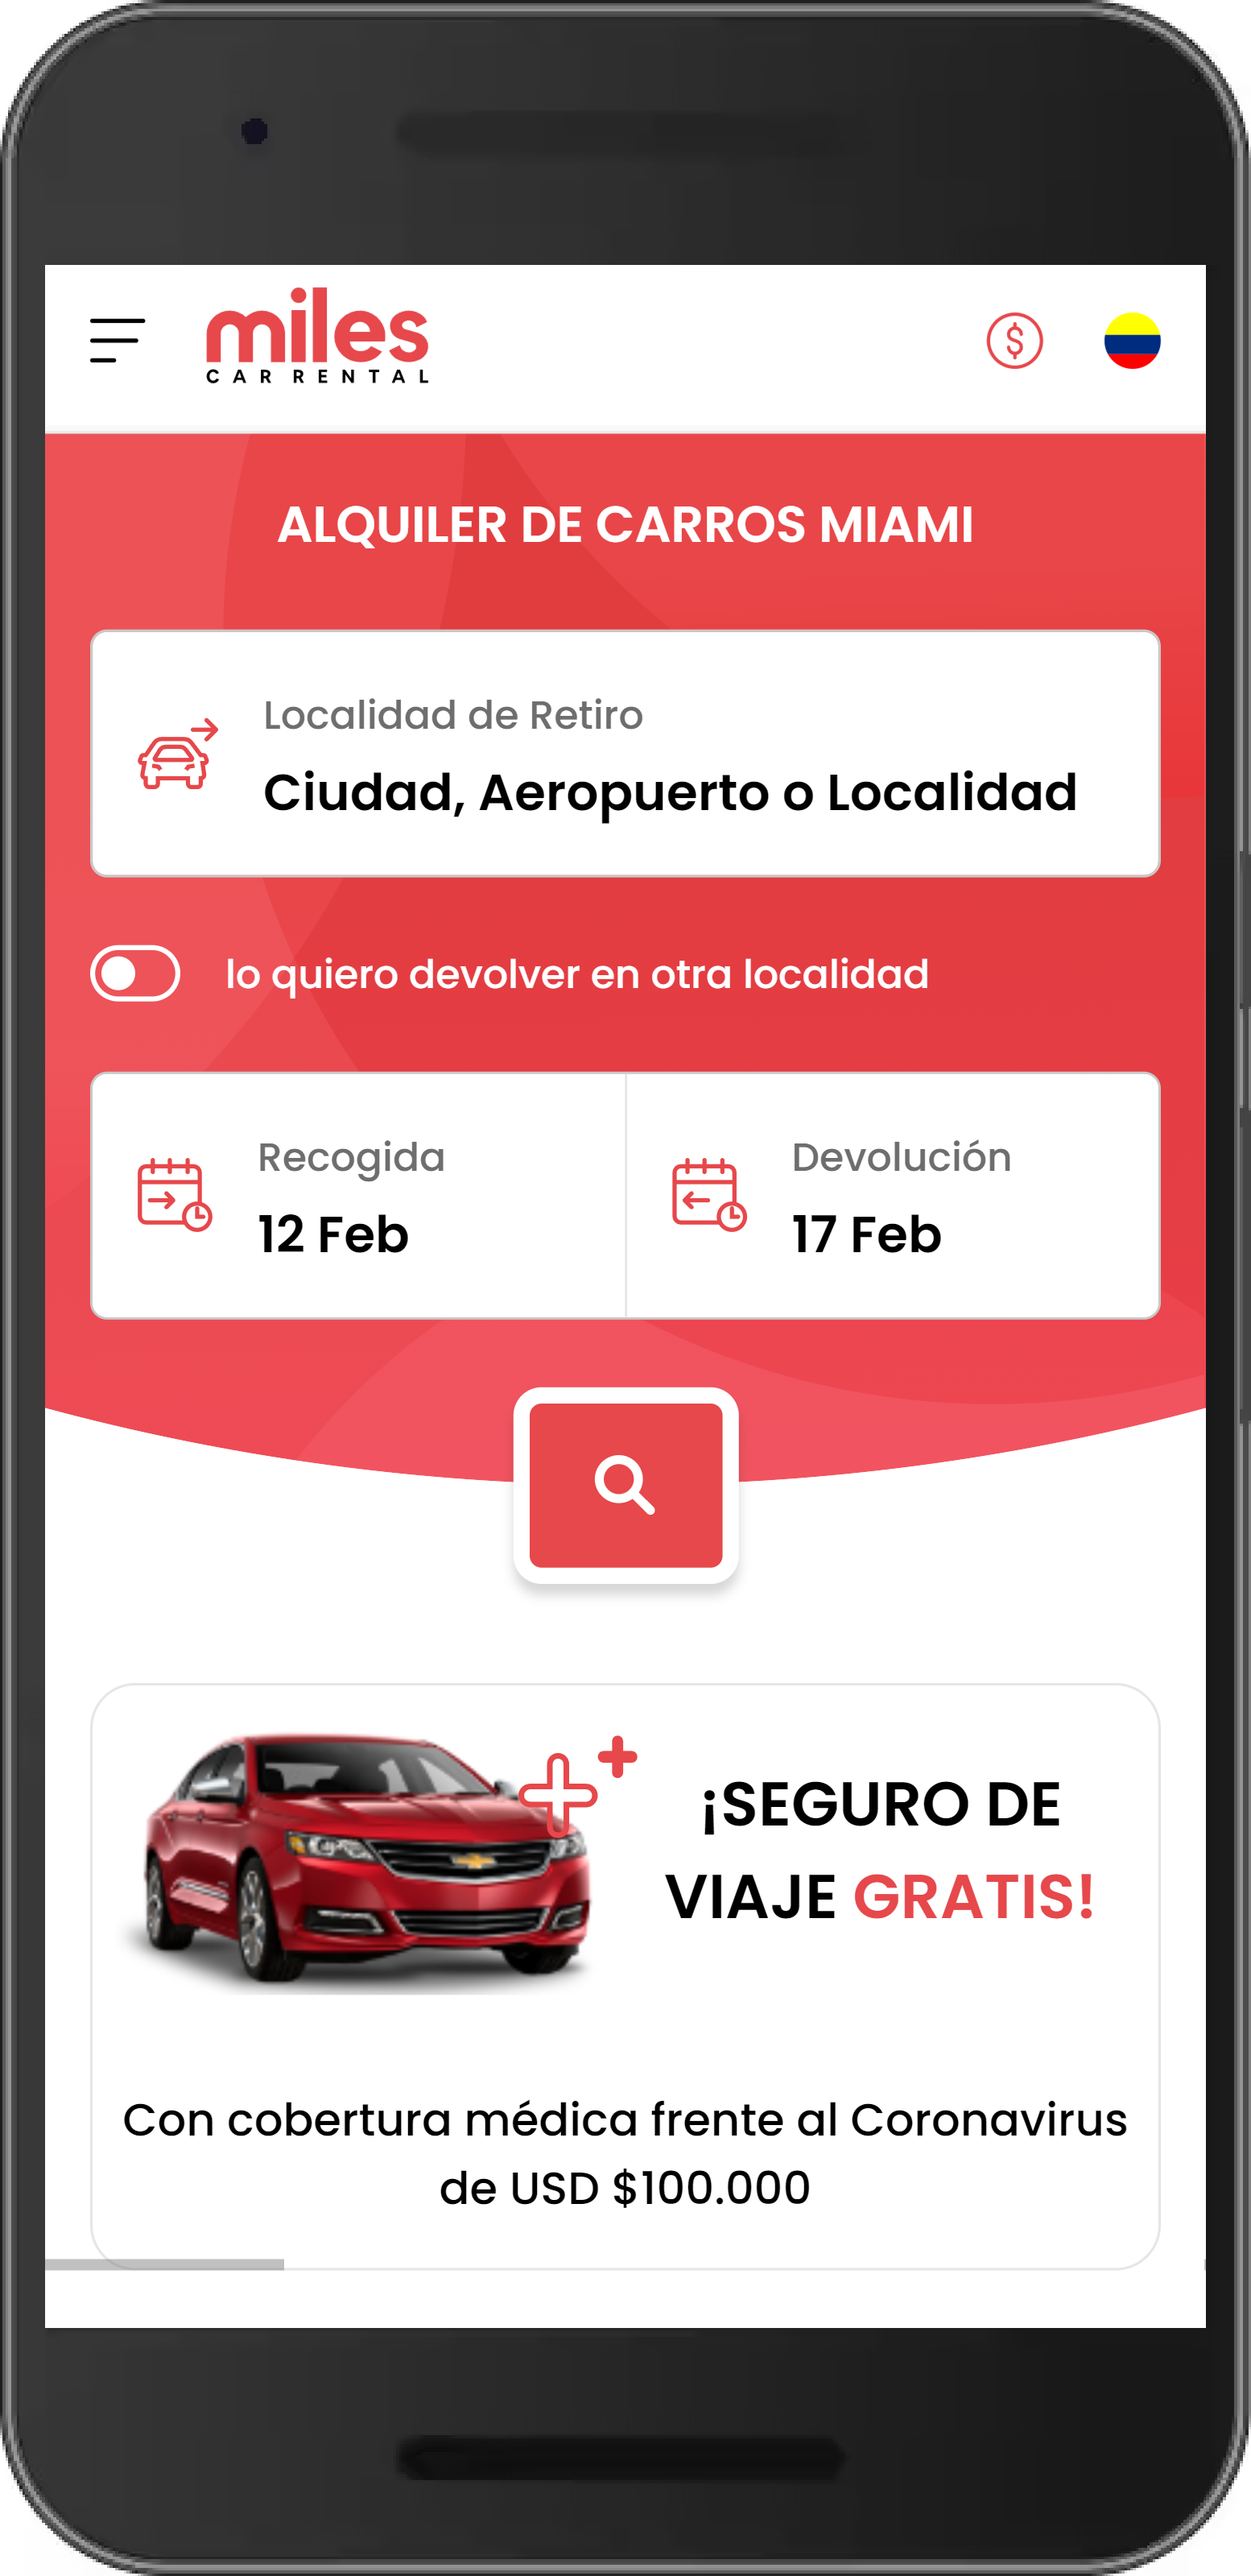
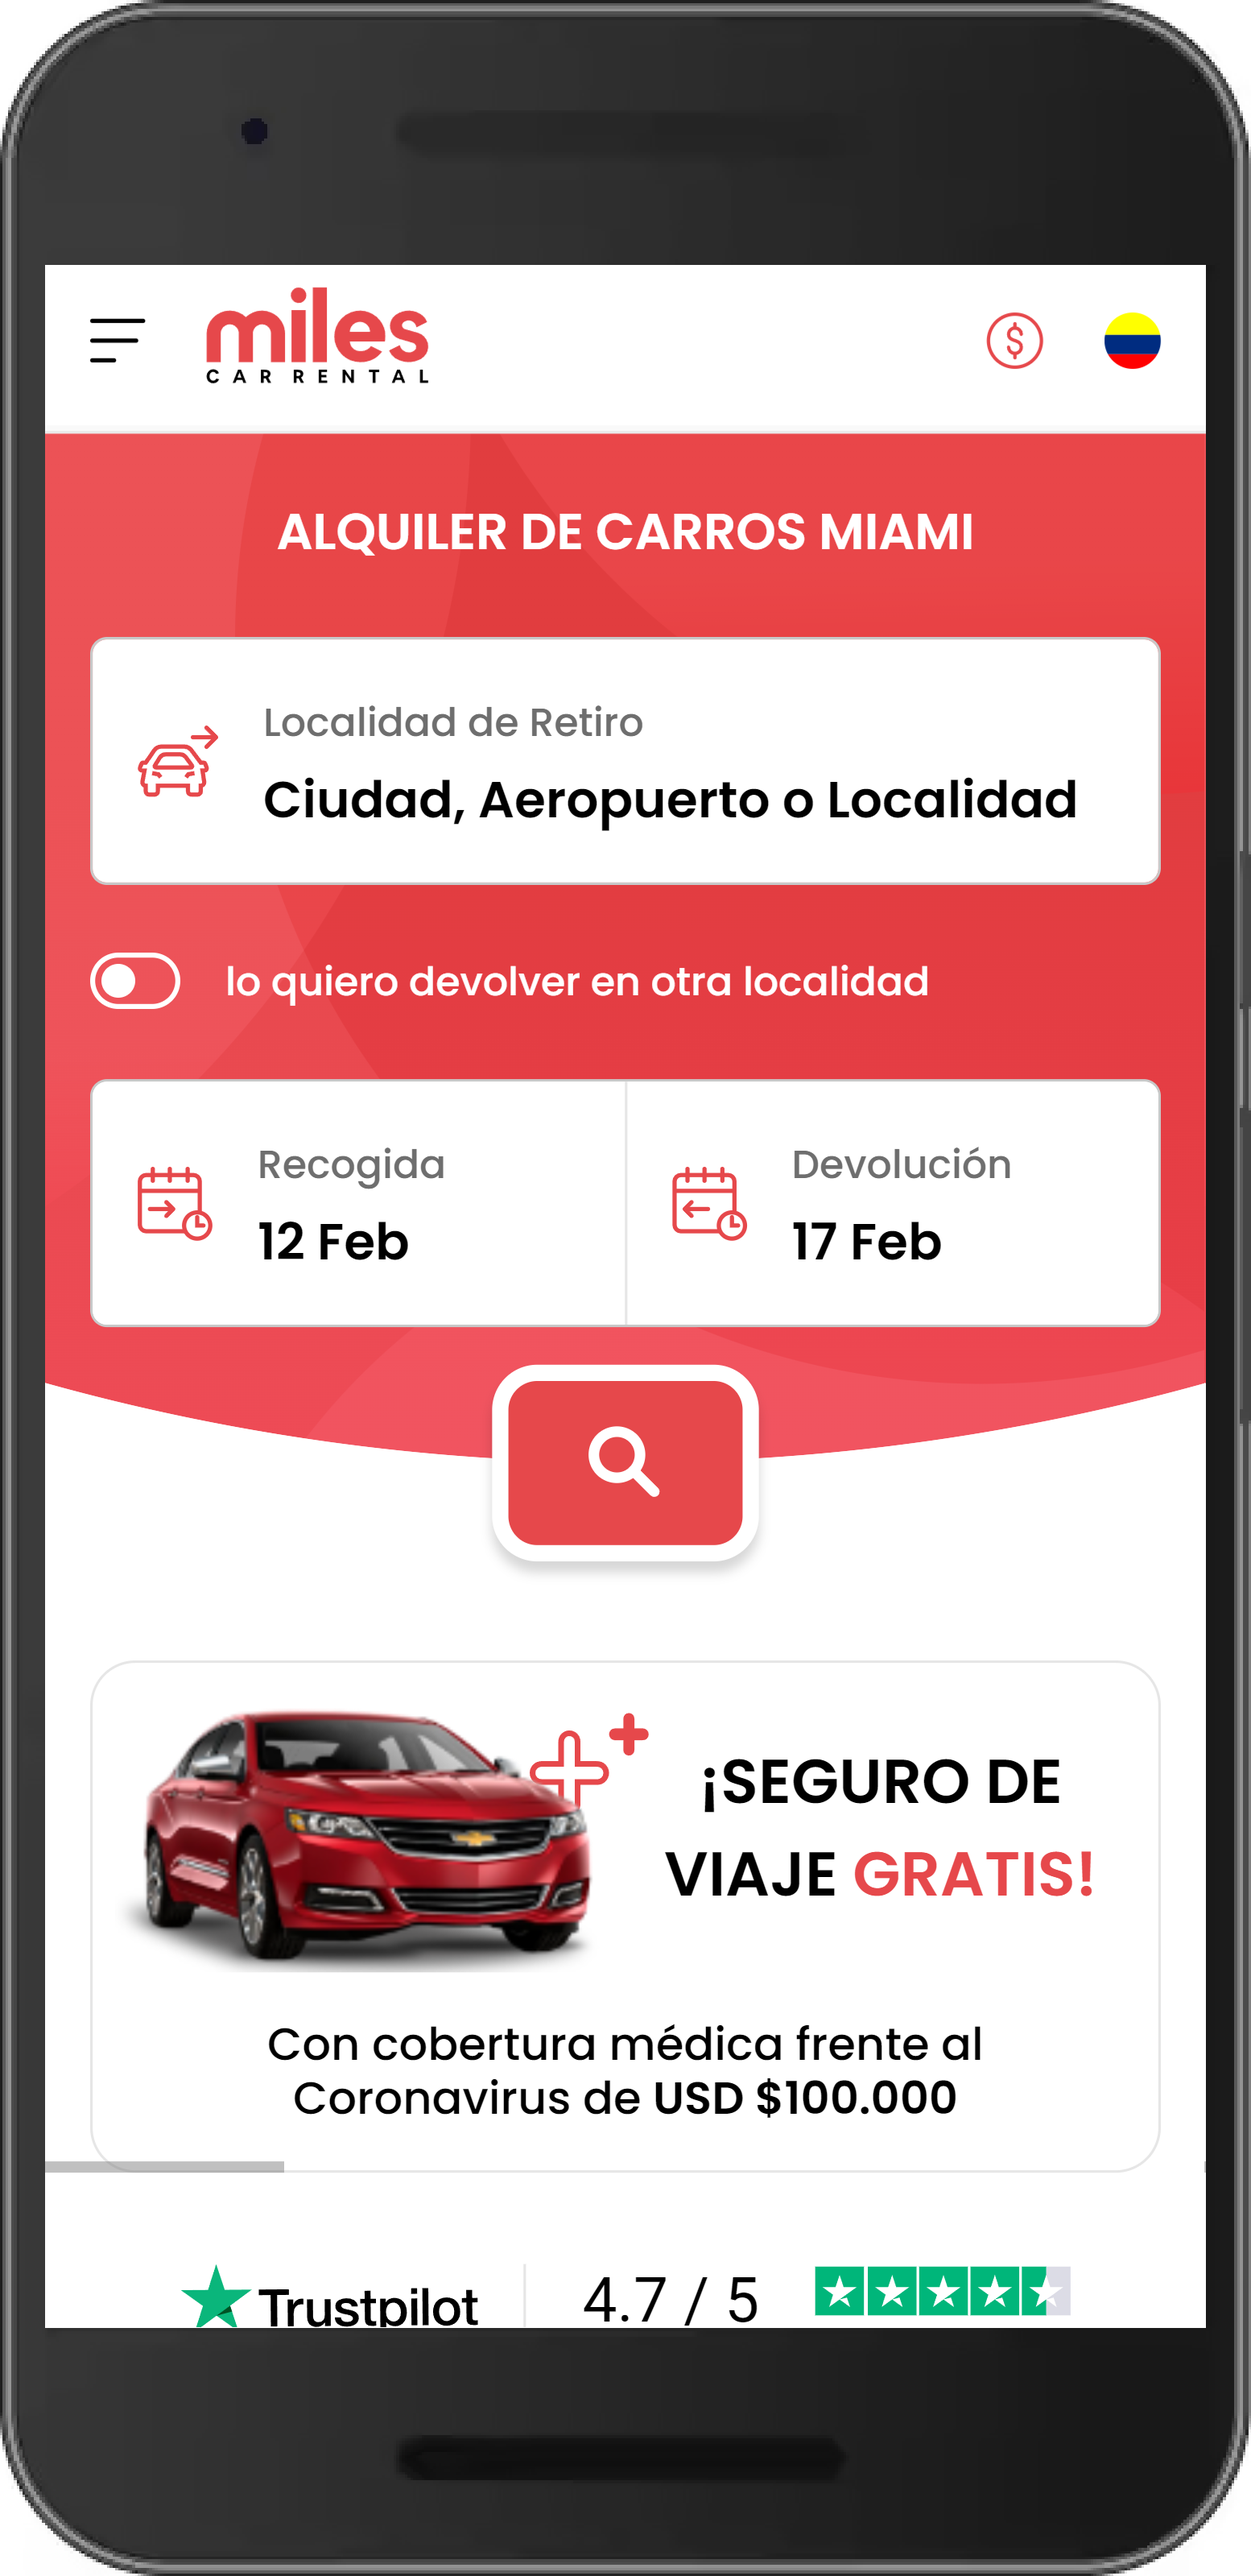
Fix promocard styles

diff --git a/src/components/cards/promoCard/styles/PromoCard.styles.ts b/src/components/cards/promoCard/styles/PromoCard.styles.ts
@@ -4,6 +4,7 @@ import DesignPlus from 'src/assets/designs/plus.svg?react';
 
 export const Content = styled.article`
 	position: relative;
+	z-index: 0;
 
 	display: grid;
 	grid:
@@ -11,7 +12,7 @@ export const Content = styled.article`
 		'text text' auto
 		/ 1fr 1fr;
 	align-items: center;
-	row-gap: 32px;
+	row-gap: 16px;
 
 	width: calc(100dvw - 32px);
 	max-width: 450px;
@@ -22,6 +23,7 @@ export const Content = styled.article`
 	background-color: ${({ theme }) => theme.colors.background};
 
 	img {
+		z-index: 1;
 		object-fit: contain;
 	}
 `;
@@ -29,7 +31,7 @@ export const Content = styled.article`
 export const Design = styled(DesignPlus)`
 	position: absolute;
 	top: 18px;
-	left: 40%;
+	left: 41%;
 `;
 
 export const Heading = styled.h4`
@@ -48,6 +50,9 @@ export const Heading = styled.h4`
 
 export const Description = styled.p`
 	grid-area: text;
+	margin: 0 8px;
+
+	line-height: 1.2;
 	text-align: center;
 	color: ${({ theme }) => theme.colors.texts};
 `;

diff --git a/src/Layout/pages/home/sections/quickSearchForm/styles/QuickSearchForm.styles.ts b/src/Layout/pages/home/sections/quickSearchForm/styles/QuickSearchForm.styles.ts
@@ -40,7 +40,7 @@ export const SwitchReturnContainer = styled(Container)`
 export const DatePickersContainer = styled(Container)`
 	overflow: hidden;
 	display: flex;
-	margin-bottom: calc(${buttonHeight} / 2);
+	margin-bottom: 24px;
 
 	text-transform: capitalize;
 	border: 1px solid ${({ theme }) => theme.colors.gray[300]};
@@ -154,10 +154,10 @@ export const SubmitButtonContainer = styled.div`
 `;
 
 export const SubmitButton = styled.button`
-	width: 80px;
+	width: 95px;
 	height: ${buttonHeight};
 
-	border-radius: 10px;
+	border-radius: 16px;
 	border: 6px solid ${({ theme }) => theme.colors.background};
 	background-color: ${({ theme }) => theme.colors.primary};
 	box-shadow: 0px 4px 4px rgba(0, 0, 0, 0.16);
@@ -168,8 +168,8 @@ export const SearchIcon = styled.i`
 	place-content: center;
 
 	svg {
-		width: 22px;
-		height: 22px;
+		width: 26px;
+		height: 26px;
 	}
 `;
 

diff --git a/src/Layout/pages/home/sections/promos/Promos.tsx b/src/Layout/pages/home/sections/promos/Promos.tsx
@@ -21,7 +21,12 @@ export const Promos: React.FC = () => {
 								¡Seguro de viaje <span>gratis!</span>
 							</>
 						}
-						description="Con cobertura médica frente al Coronavirus de USD $100.000"
+						description={
+							<>
+								Con cobertura médica frente al Coronavirus de{' '}
+								<b>USD $100.000</b>
+							</>
+						}
 						image={PCAR_US}
 						alt="Imagen de un auto con un seguro de viaje gratis"
 					/>

diff --git a/src/Layout/panels/hamburgerMenu/styles/HamburgerMenu.styles.ts b/src/Layout/panels/hamburgerMenu/styles/HamburgerMenu.styles.ts
@@ -19,7 +19,7 @@ export const Header = styled.header`
 export const Links = styled.menu`
 	display: flex;
 	flex-direction: column;
-	gap: 64px;
+	gap: 48px;
 
 	padding: 0 24px;
 
